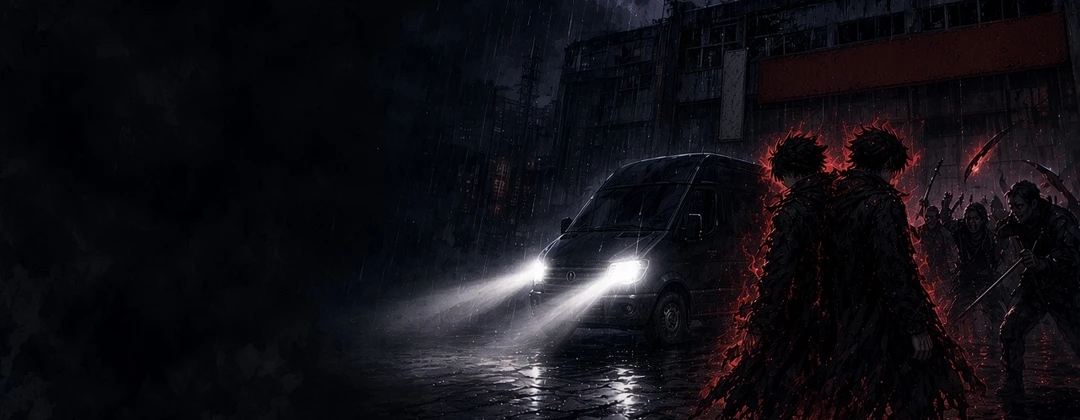
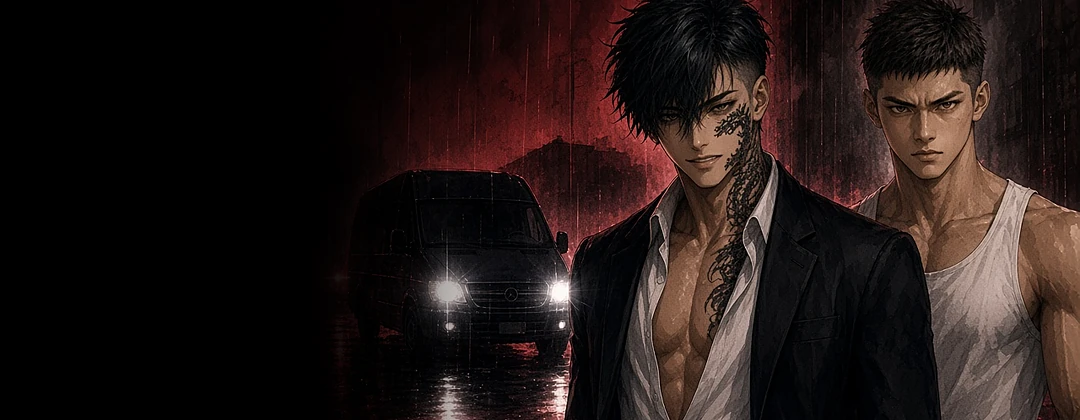
스토리 이어하기 챕터 배너 ch0~15 (그림순이 새 스타일) (#468)
* 스토리 챕터 배너 ch0~15 새 스타일로 교체/추가

* 스토리 배너: 고른 시작 캐릭터/루트별 배너(story_banner_chN_<id>) 먼저, 없으면 챕터 배너 → 기본

* Add route variant story banners (ch1/ch2)

---------

diff --git a/js/story.js b/js/story.js
@@ -2075,7 +2075,7 @@
       owned: save.owned.map(view), uniq: inst.length,
       chapters: D.chapters.map(ch => ({ id: ch.id, title: ch.title, done: (save.cleared?.[ch.id] || []).filter(no => ch.phases.some(p => p.no === no)).length, total: ch.phases.length })),
       current: (() => { try { const i = hubCurIdx(), base = D.chapters[i], ch = chapterFor(base), nx = nextPlay(), n = clearedOf(ch).length, cv = chCover(base);
-        return { i, id: base.id, bg: bgKey(base), title: base.title, subtitle: ch.subtitle || base.title, phase: nx && nx.i === i ? nx.ph.no : null, boss: nx && nx.i === i && nx.ph.type === 'boss', done: n, total: ch.phases.length, cover: cv ? `${IMG}${cv}.webp` : null }; } catch { return null; } })(),
+        return { i, id: base.id, bg: bgKey(base), title: base.title, subtitle: ch.subtitle || base.title, phase: nx && nx.i === i ? nx.ph.no : null, boss: nx && nx.i === i && nx.ph.type === 'boss', done: n, total: ch.phases.length, cover: cv ? `${IMG}${cv}.webp` : null, variant: base.byStarter ? (save?.starter || null) : routeOf(base) }; } catch { return null; } })(),
     };
   }
   /** 다른 모드(퀘스트)용 내부 도구 */

diff --git a/js/main-menu.js b/js/main-menu.js
@@ -109,7 +109,8 @@
     } catch {}
     try {
       const sm = await window.VRStory?.summary?.(), c = sm?.current;
-      if (c) { const im = document.querySelector('#story-btn [data-alt]'); if (im) { const i = new Image(); i.onload = () => { im.src = i.src; }; i.src = `img/ui/main/story_banner_ch${c.i | 0}.webp`; } }
+      // 배너: 고른 시작 캐릭터/루트별(story_banner_ch{N}_{variant}) → 챕터(story_banner_ch{N}) → 기본 그림
+      if (c) { const im = document.querySelector('#story-btn [data-alt]'); if (im) { const i = new Image(); const urls = [c.variant && `img/ui/main/story_banner_ch${c.i | 0}_${c.variant}.webp`, `img/ui/main/story_banner_ch${c.i | 0}.webp`].filter(Boolean); let k = 0; i.onload = () => { im.src = i.src; }; i.onerror = () => { if (++k < urls.length) i.src = urls[k]; }; i.src = urls[0]; } }
       if (c) $('main-cta-sub').textContent = `CHAPTER ${c.i} · ${c.phase ? 'PHASE ' + c.phase : `${c.done}/${c.total}`}${c.title && !new RegExp('^\\s*(CHAPTER|CH\\.?|챕터)\\s*0*' + c.i + '\\s*$', 'i').test(c.title) ? ' · ' + c.title : ''}`;
     } catch {}
   }
